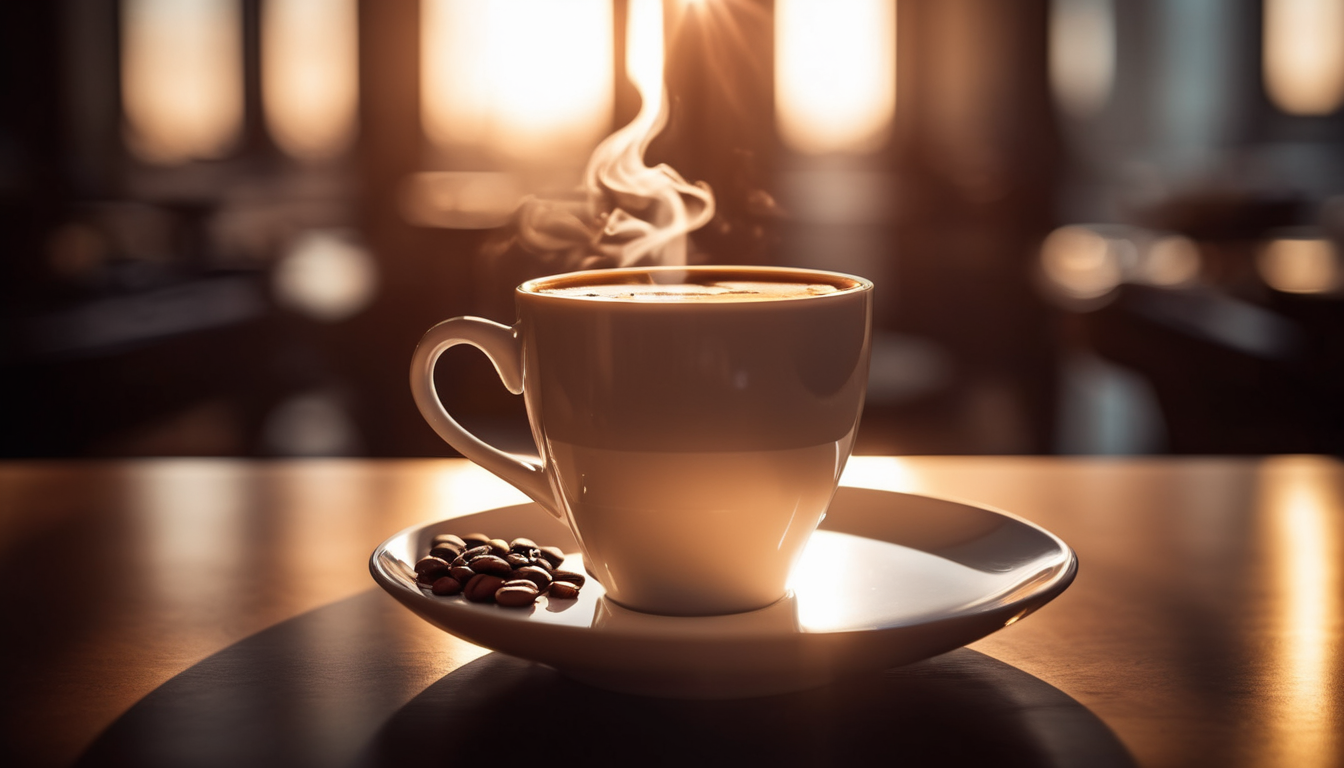
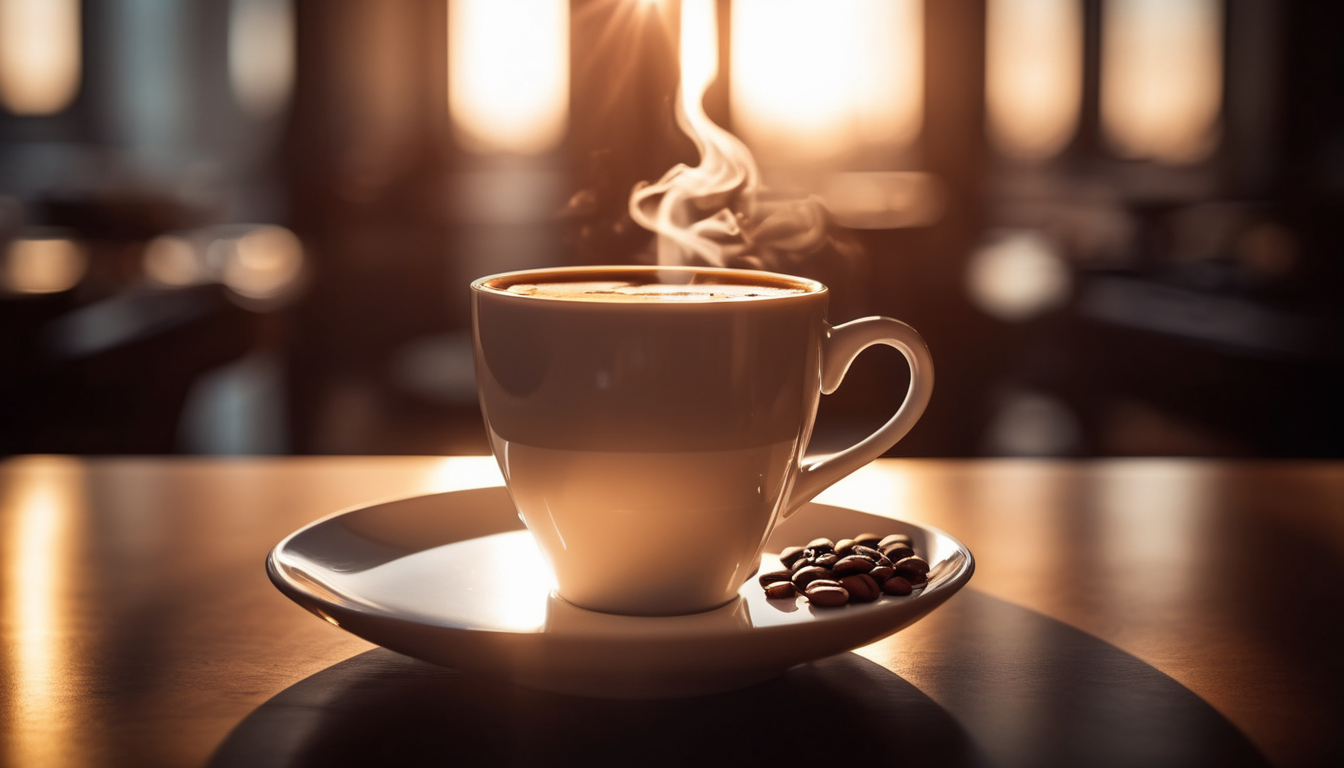
update github pages to chinese navigation

diff --git a/_sass/minimal-mistakes/_page.scss b/_sass/minimal-mistakes/_page.scss
@@ -234,8 +234,8 @@ body {
 }
 
 .page__hero-image {
-  width: 100%;
-  height: auto;
+  width: auto; //100%;
+  height: 200%; //auto;
   -ms-interpolation-mode: bicubic;
 }
 

diff --git a/_pages/splash-page.md b/_pages/splash-page.md
@@ -1,24 +1,27 @@
 ---
-title: "AM Coffee 365"
+title: "清晨咖啡 - 品学"
 layout: splash
 permalink: /
 date: 2023-09-23T16:20:00-04:00
 header:
   overlay_color: "#000"
-  overlay_filter: "0.9"
+  overlay_filter: "0.2"
   overlay_image: /assets/images/header_image.png
   actions:
-    - label: "Take a Sip"
+    - label: "品一口"
       url: "https://github.com/mmistakes/minimal-mistakes/"
-  caption: "Photo credit: [**Stable Diffusion**](https://stablediffusionweb.com/)"
-excerpt: "Sip Academy"
+  # caption: "Photo credit: [**Stable Diffusion**](https://stablediffusionweb.com/)"
+excerpt: "Sip Academy with AM Coffee 365"
 intro: 
-  - excerpt: 'Sip Academy with AM Coffee 365. `type="center"`'
+  - excerpt: '*Sip Academy with AM Coffee 365.*'
 feature_row:
-  - image_path: assets/images/unsplash-gallery-image-1-th.jpg
-    alt: "placeholder image 1"
-    title: "Placeholder 1"
-    excerpt: "This is some sample content that goes here with **Markdown** formatting."
+  - image_path: assets/images/ps.png
+    alt: "Personal Statement"
+    title: "博士申请 | PS模版"
+    excerpt: "Personal Statement"
+    url: "/year-archive/"
+    btn_label: "Read More"
+    btn_class: "btn--primary"
   - image_path: /assets/images/unsplash-gallery-image-2-th.jpg
     image_caption: "Image courtesy of [Unsplash](https://unsplash.com/)"
     alt: "placeholder image 2"

diff --git a/_pages/blog.md b/_pages/blog.md
@@ -1,0 +1,6 @@
+---
+title: "Posts by Tag"
+permalink: /tags/
+layout: tags
+author_profile: true
+---
